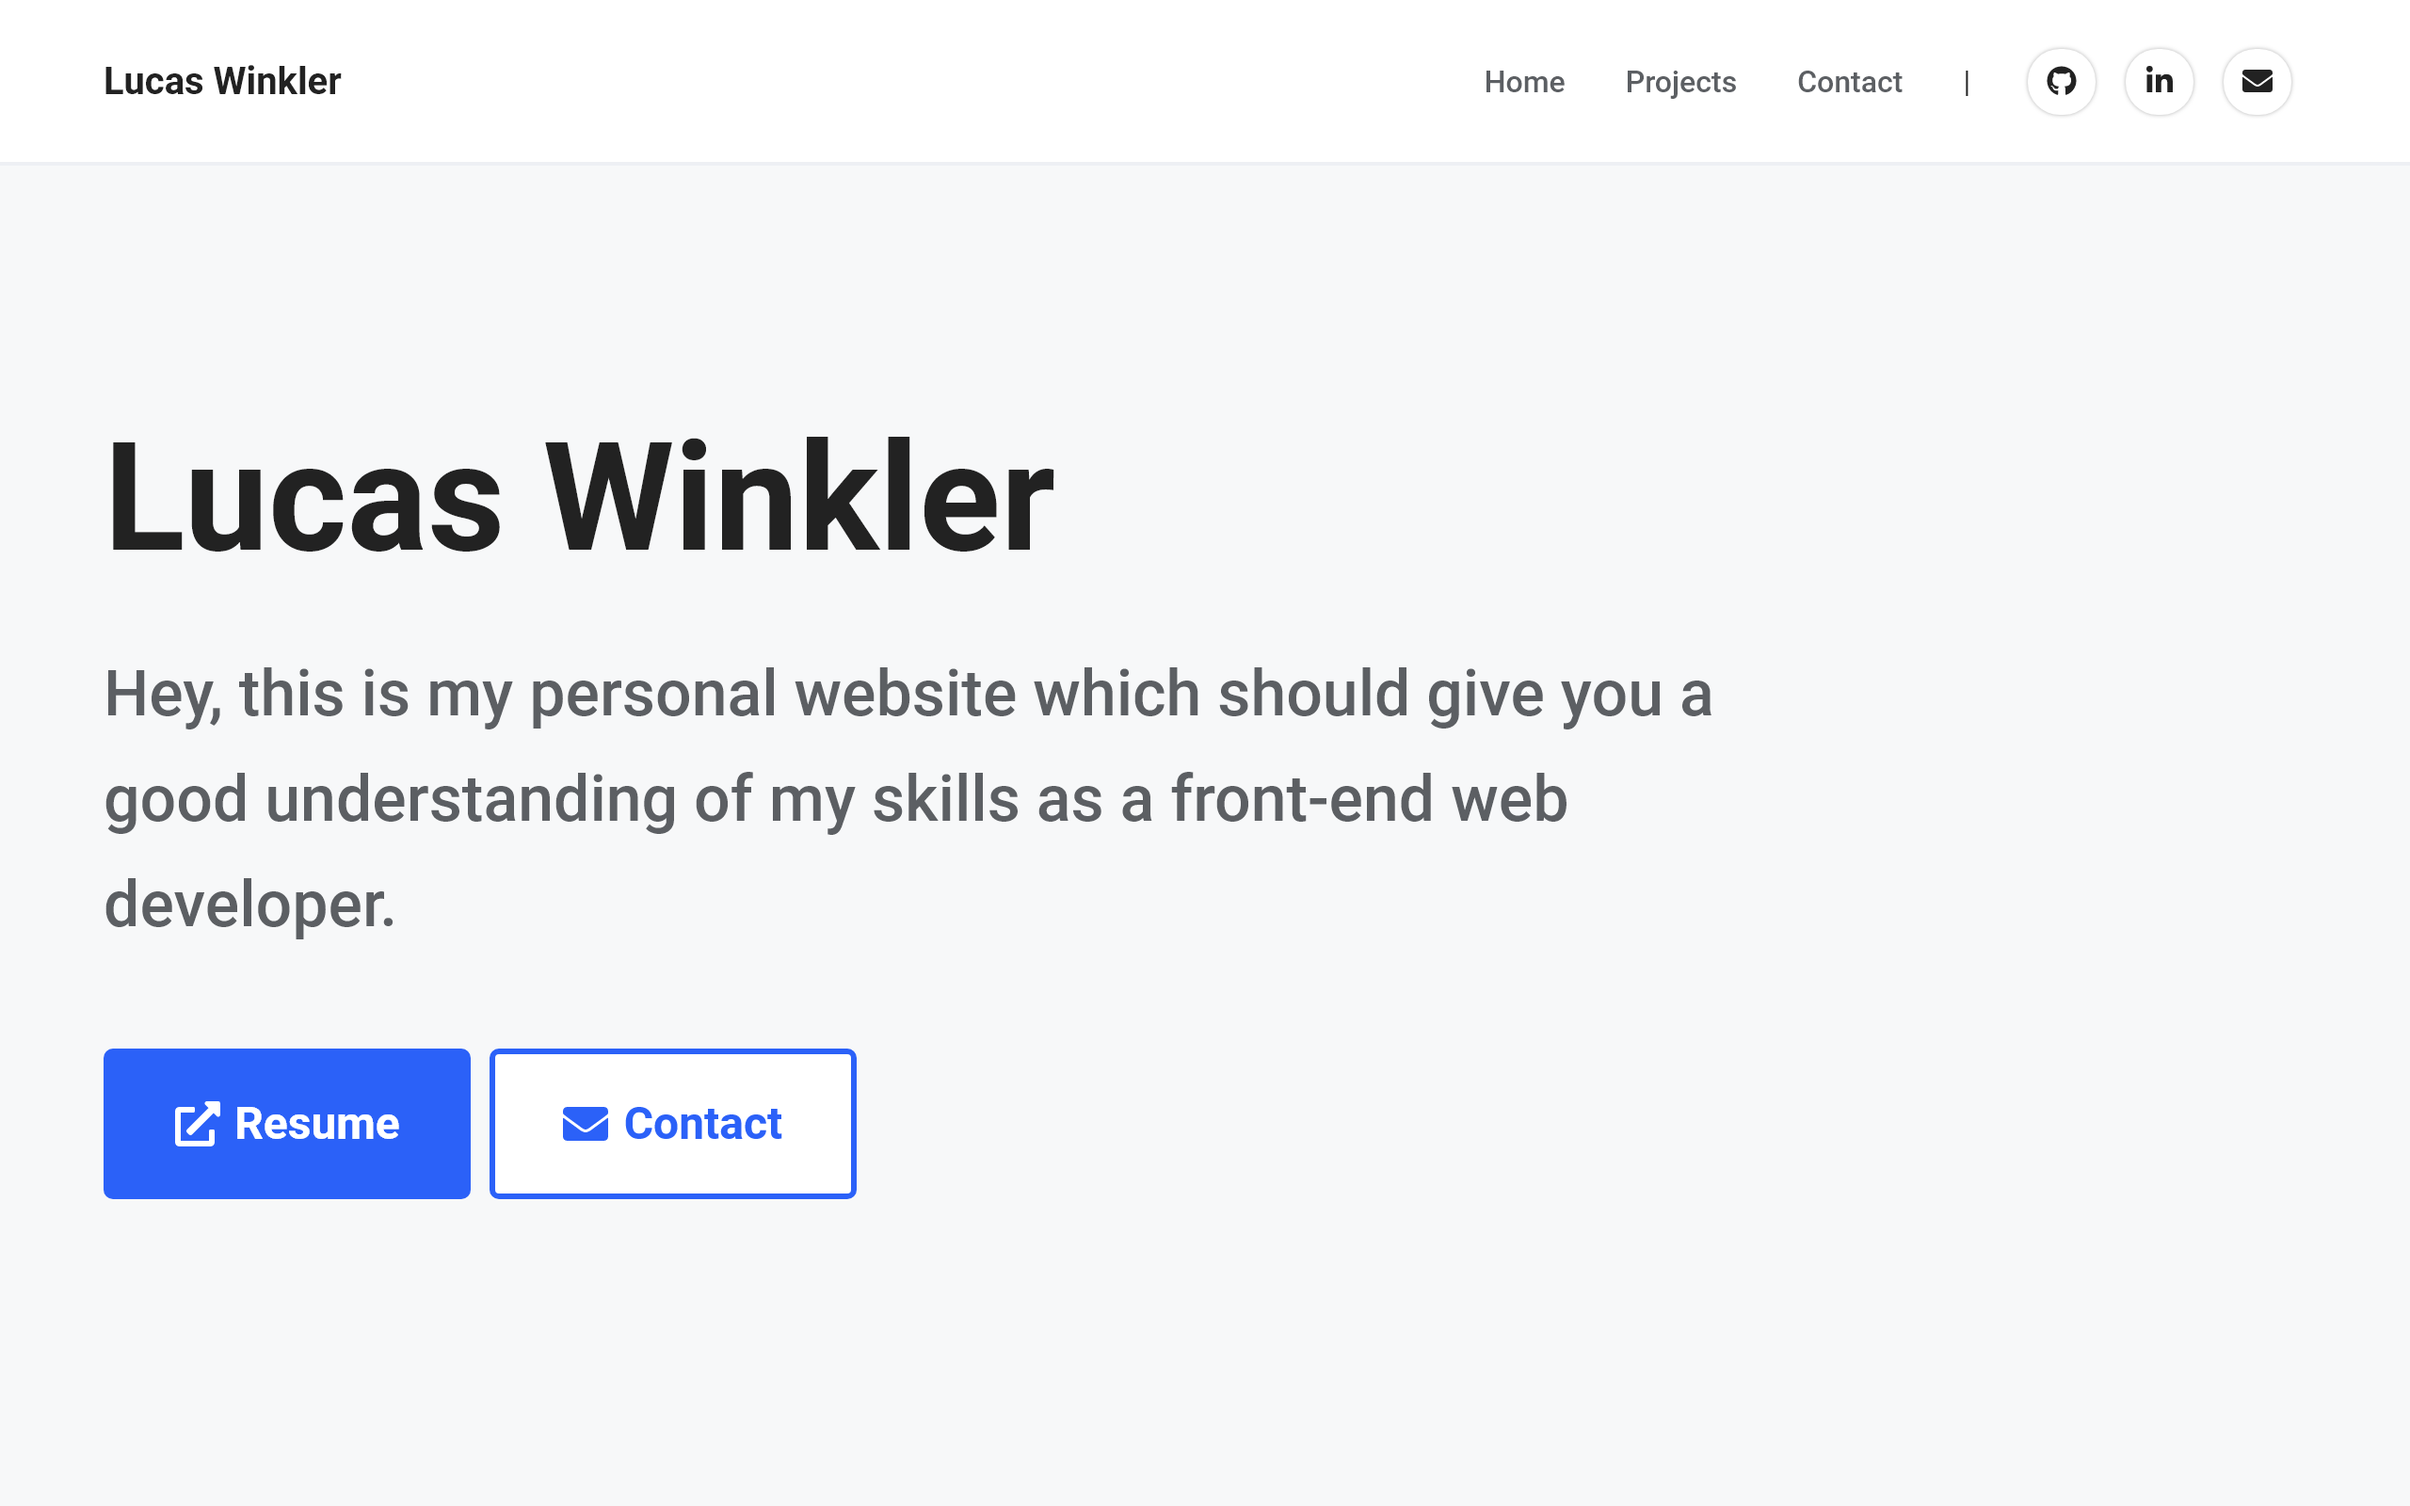
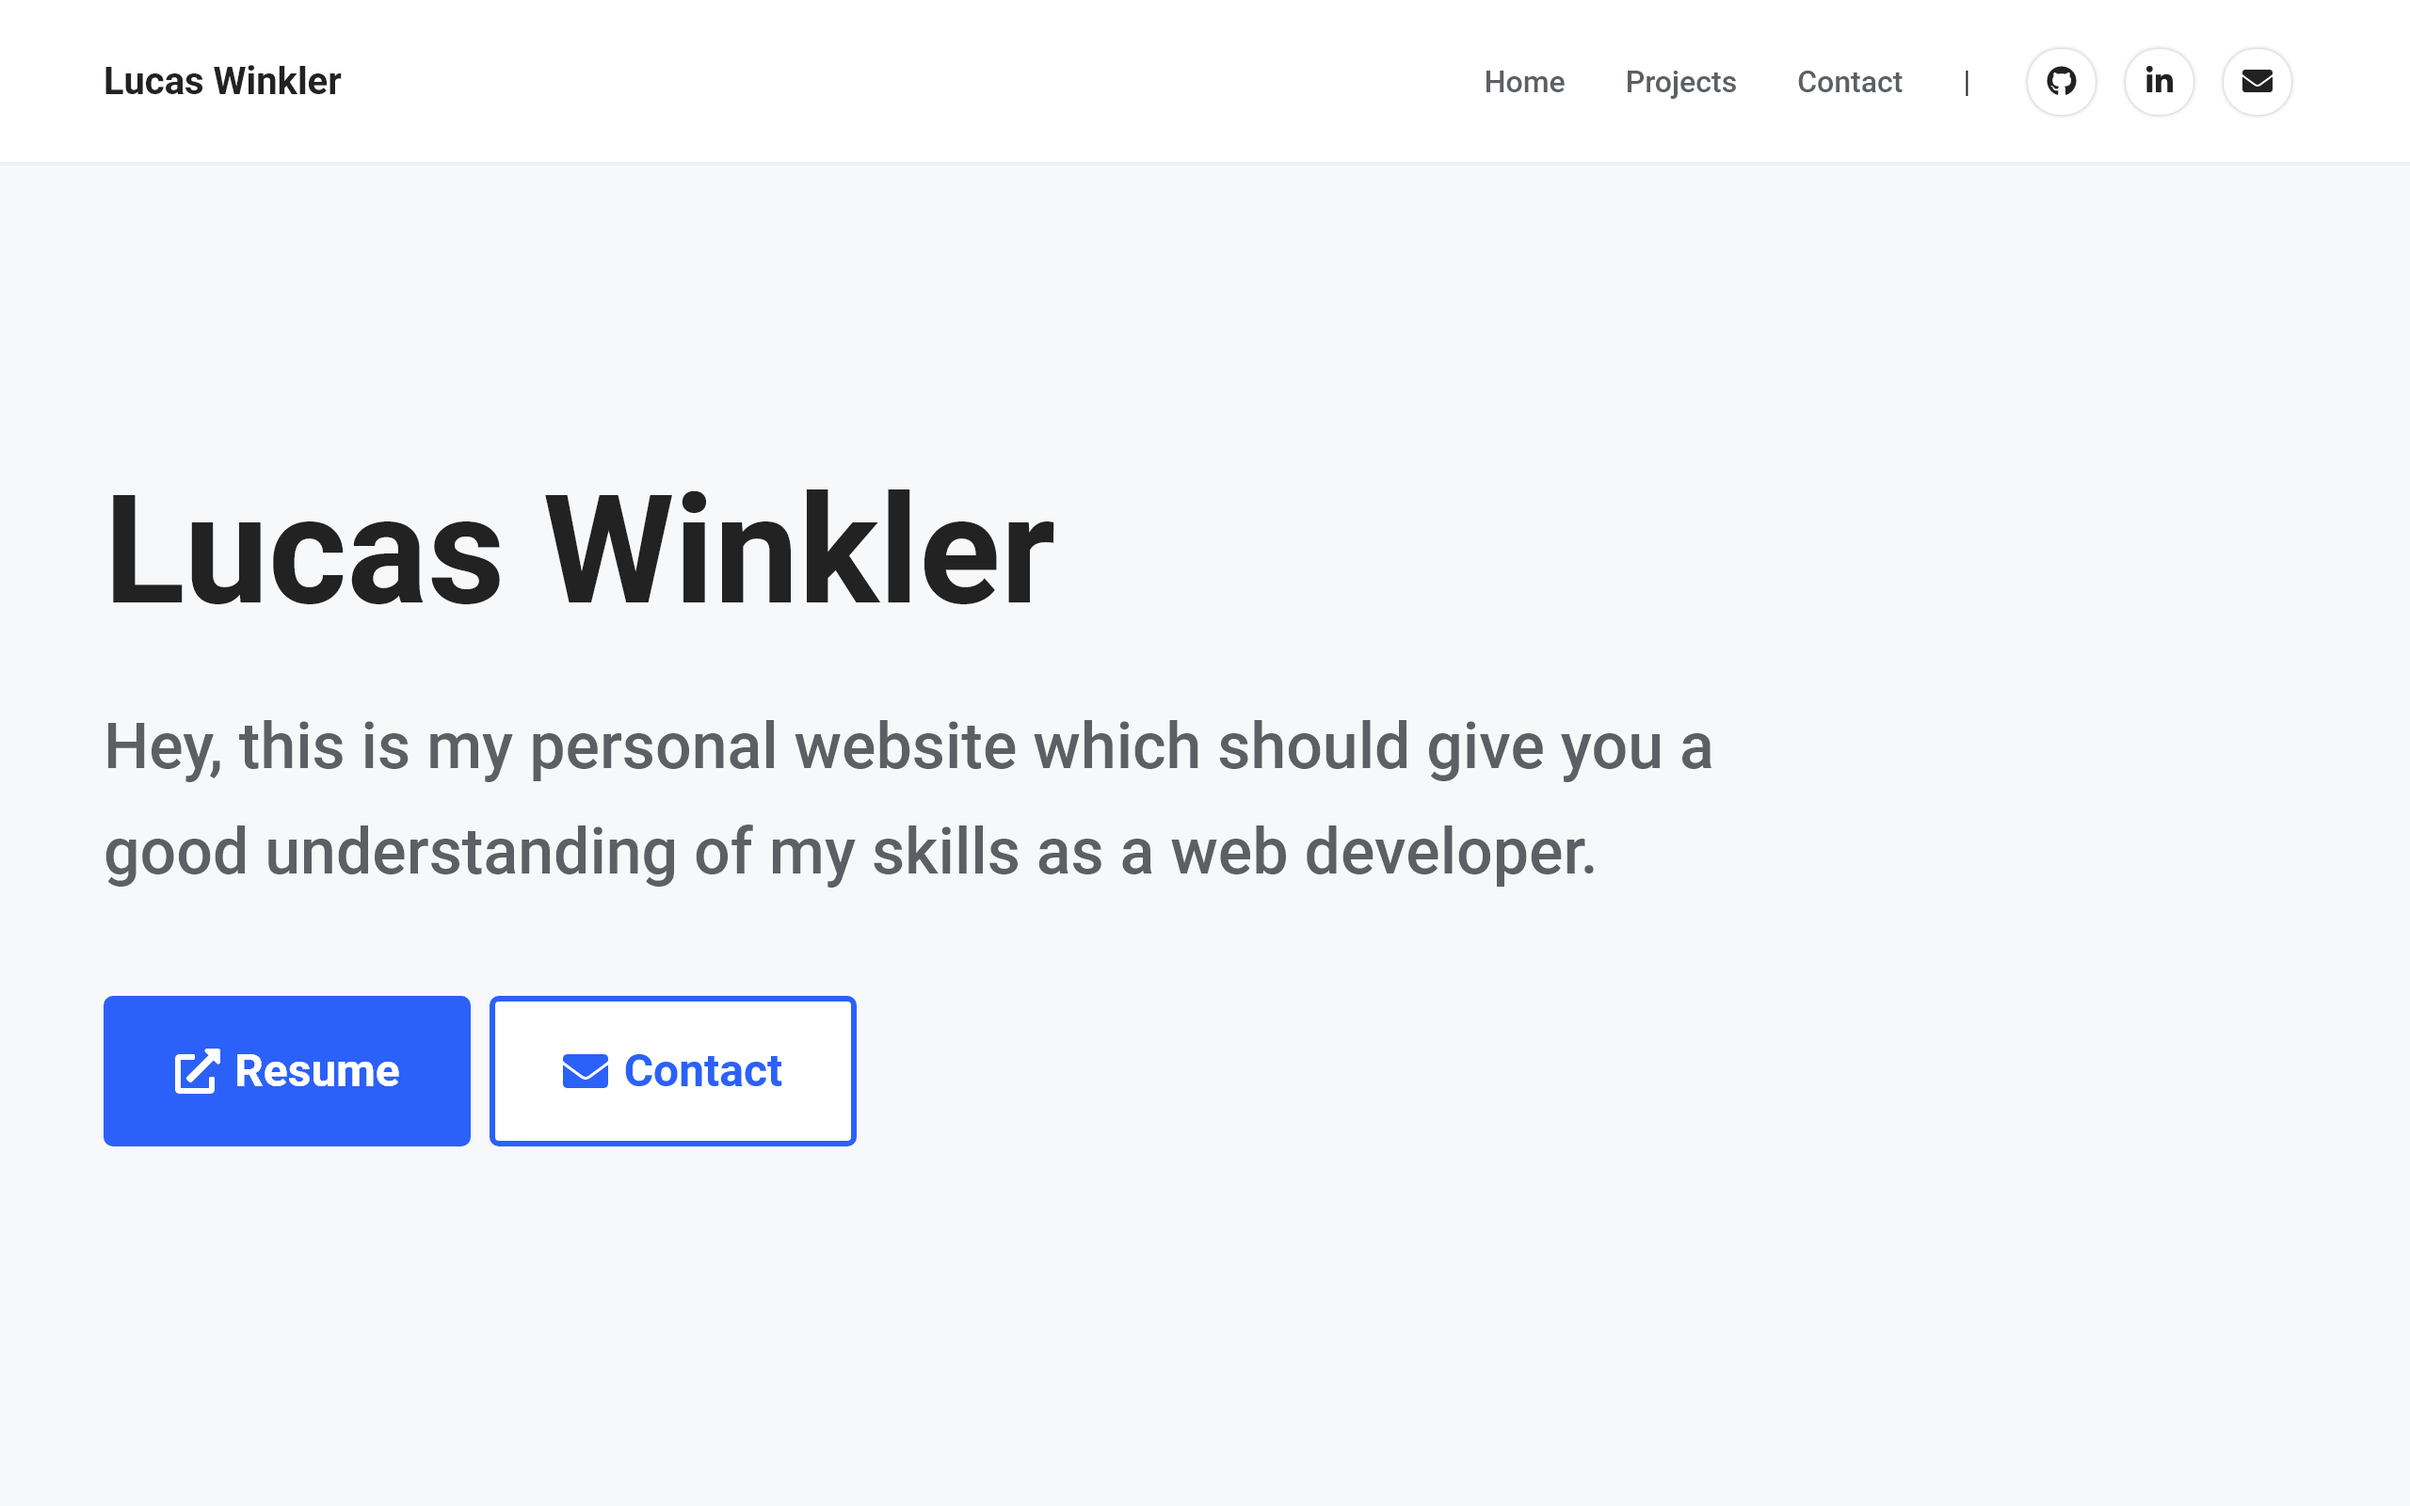
Changed title and other small fixes

Changed region(s): [[0.0312, 0.4375, 0.7188, 0.625], [0.0312, 0.6562, 0.3438, 0.8125], [0.0312, 0.2812, 0.4375, 0.4062]]

diff --git a/src/data/hero.js b/src/data/hero.js
@@ -4,12 +4,12 @@ import { faEnvelope } from '@fortawesome/free-solid-svg-icons';
 const data = {
   title: 'Lucas Winkler',
   subtitle:
-    'Hey, this is my personal website which should give you a good understanding of my skills as a front-end web developer.',
+    'Hey, this is my personal website which should give you a good understanding of my skills as a web developer.',
   btnResume: {
     text: 'Resume',
     icon: faExternalLinkAlt,
     style: 'btn btn-cta',
-    href: './lucas_winkler-resume.pdf' // TODO: Create resume, convert to PDF and name it lucas_winkler-resume
+    href: './lucas_winkler-resume.pdf'
   },
   btnContact: {
     text: 'Contact',
